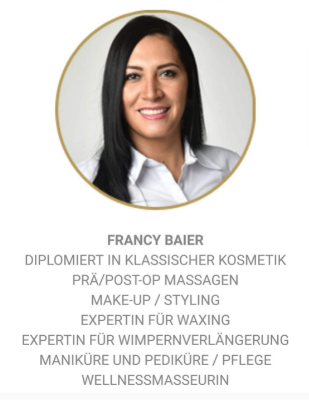
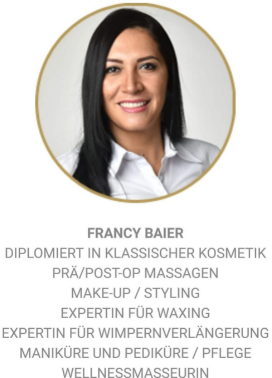
update proyecto pag web

Changed region(s): [[0.0, 0.582, 1.0, 1.0], [0.1176, 0.0, 0.8824, 0.5529]]

diff --git a/MODULO 2/Proyecto Francys Beauty Kosmetik/style.css b/MODULO 2/Proyecto Francys Beauty Kosmetik/style.css
@@ -31,6 +31,20 @@ p
 	font-weight: bold;
 }
 
+#nosotros .container #ftf
+{
+	position: relative;
+}
+
+#nosotros .cuadrado-foto
+{
+	display: block;
+	position: relative;
+	width: 278px;
+	height: 384px;
+	border: 2px solid black	;
+}
+
 header
 {
 	position: relative;
@@ -49,6 +63,7 @@ header .container
 	align-items: center;
 	font-size: 15px;
 	font-weight: bolder;
+	width: 100%;
 }
 
 header .container .logo

diff --git a/MODULO 2/Proyecto Francys Beauty Kosmetik/index.html b/MODULO 2/Proyecto Francys Beauty Kosmetik/index.html
@@ -42,7 +42,9 @@
 				<div class="container">
 					<p id="namef">Francy Baier</p>
 					<hr>
-					<img src="img/fd.png">
+					<div class="cuadrado-foto">
+						<img src="img/fd.png" id="ftf">
+					</div>
 					<p>
 						<br>Especialista en tecnicas manuales faciales y corporales, reducción y moldeo.
 						<br>Certificada en manejo de paciente pre y posquirurgico.
